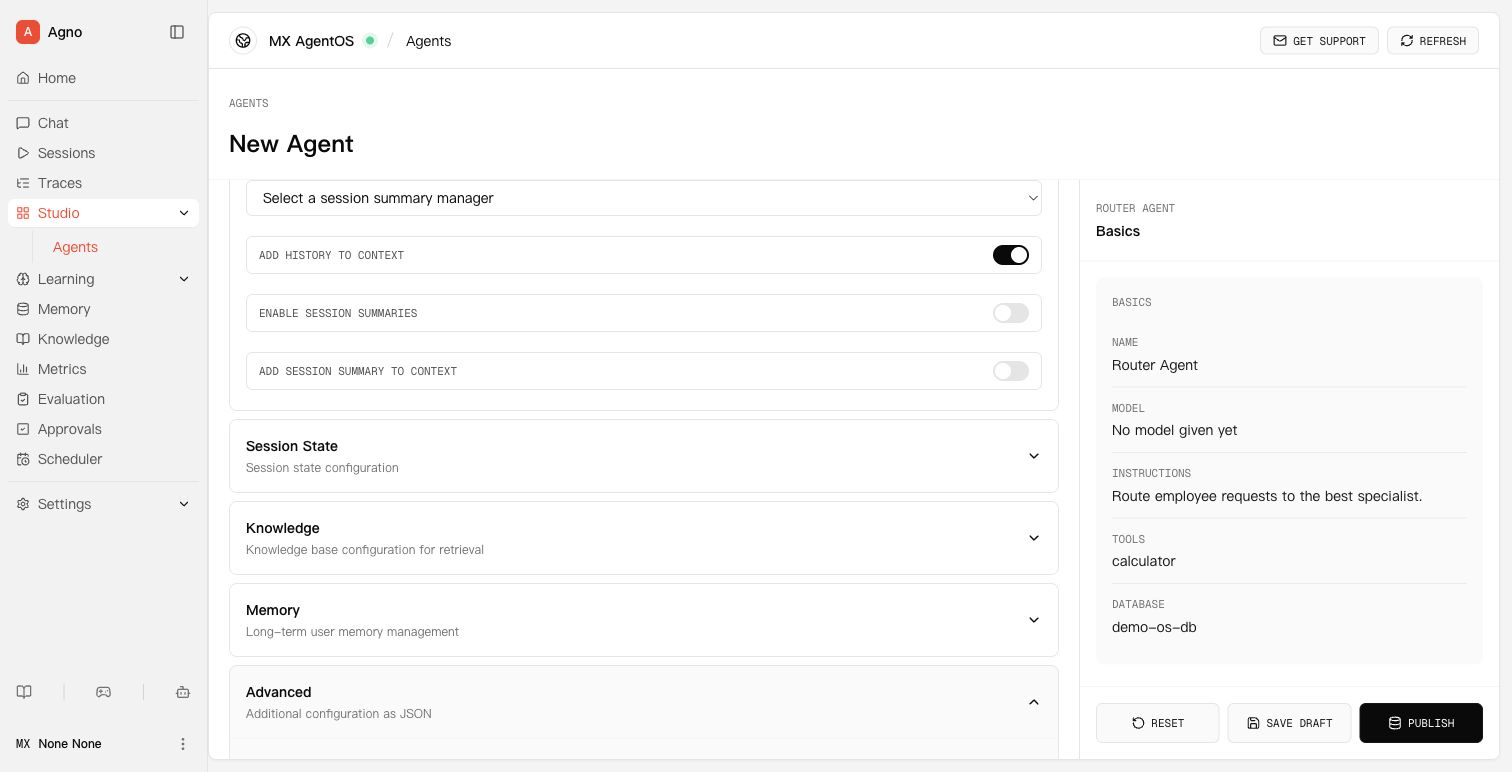
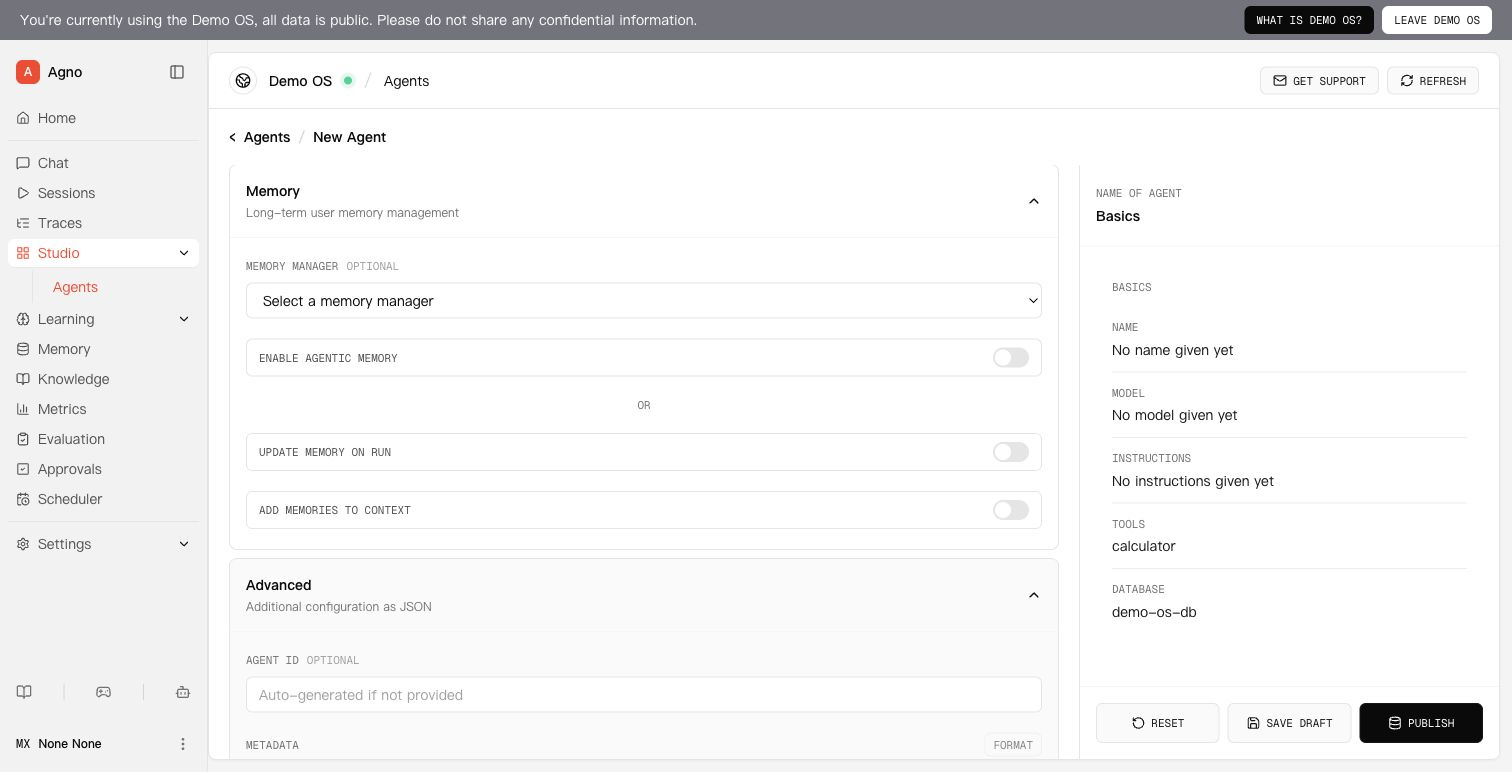
feat: align studio demo shell

diff --git a/frontend/src/components/agentos/app-shell.tsx b/frontend/src/components/agentos/app-shell.tsx
@@ -83,6 +83,7 @@ export function AppShell({
   userInitials: string;
 }) {
   const pathname = usePathname();
+  const isDemoSurface = !pathname.startsWith("/settings");
   const isActive = (href: string, label?: string) => {
     if (href === "/") {
       return pathname === "/";
@@ -97,10 +98,30 @@ export function AppShell({
   const studioLabel = studioSubNav.find(([, href]) => pathname === href)?.[0];
   const learningLabel = learningSubNav.find(([, href]) => pathname === href)?.[0];
   const pageLabel = !settingsLabel && pathname !== "/" ? navigation.find((item) => isActive(item.href, item.label))?.label : null;
+  const shellWorkspaceName = isDemoSurface ? "Demo OS" : workspaceName;
 
   return (
     <div className="min-h-svh bg-[#f4f4f5] text-neutral-950">
-      <div className="flex h-svh">
+      {isDemoSurface ? (
+        <div className="flex h-10 items-center justify-between bg-[#73737d] px-5 text-sm text-white">
+          <p>You&apos;re currently using the Demo OS, all data is public. Please do not share any confidential information.</p>
+          <div className="flex items-center gap-2">
+            <button
+              className="h-7 rounded-md bg-neutral-950 px-3 font-mono text-[11px] uppercase text-white"
+              type="button"
+            >
+              What is Demo OS?
+            </button>
+            <button
+              className="h-7 rounded-md bg-white px-3 font-mono text-[11px] uppercase text-neutral-900"
+              type="button"
+            >
+              Leave Demo OS
+            </button>
+          </div>
+        </div>
+      ) : null}
+      <div className={cn("flex", isDemoSurface ? "h-[calc(100svh-40px)]" : "h-svh")}>
         <aside className="flex w-52 shrink-0 flex-col border-r border-neutral-200 bg-[#f2f2f3]">
           <div className="flex h-16 items-center justify-between px-4">
             <Link className="flex items-center gap-2 text-sm font-medium" href="/">
@@ -220,7 +241,7 @@ export function AppShell({
                 <span className="grid size-7 place-items-center rounded-full border border-neutral-200 bg-white">
                   <Globe2 className="size-4" />
                 </span>
-                <span className="text-sm font-medium">{workspaceName}</span>
+                <span className="text-sm font-medium">{shellWorkspaceName}</span>
                 <span className="size-2 rounded-full bg-emerald-400 shadow-[0_0_0_4px_rgba(52,211,153,0.16)]" />
                 {pageLabel ? (
                   <>

diff --git a/frontend/src/components/agentos/studio-panel.tsx b/frontend/src/components/agentos/studio-panel.tsx
@@ -141,7 +141,7 @@ function AgentBuilder({ agent, onBack }: { agent: EntityCardData | null; onBack:
   const [draftSaved, setDraftSaved] = useState(false);
   const [published, setPublished] = useState(false);
 
-  const publishEnabled = name.trim().length > 0;
+  const publishEnabled = name.trim().length > 0 || selectedTools.length > 0;
   const preview = useMemo(
     () => [
       ["Name", name.trim() || "No name given yet"],
@@ -189,13 +189,16 @@ function AgentBuilder({ agent, onBack }: { agent: EntityCardData | null; onBack:
 
   return (
     <div className="flex min-h-0 flex-1 flex-col">
-      <div className="border-b border-neutral-100 px-5 py-5">
-        <button className="mb-4 font-mono text-[11px] uppercase text-neutral-500 hover:text-neutral-900" onClick={onBack} type="button">
+      <div className="flex h-14 shrink-0 items-center gap-2 px-5 text-sm font-semibold">
+        <button className="inline-flex items-center gap-2 hover:text-neutral-600" onClick={onBack} type="button">
+          <span aria-hidden className="text-lg leading-none">
+            ‹
+          </span>
           Agents
         </button>
-        <h1 className="text-2xl font-semibold">{agent ? agent.name : "New Agent"}</h1>
+        <span className="text-neutral-300">/</span>
+        <span>{agent ? agent.name : "New Agent"}</span>
       </div>
-
       <div className="grid min-h-0 flex-1 grid-cols-[minmax(0,1fr)_420px]">
         <div className="agno-scrollbar min-h-0 overflow-auto px-5 py-5">
           <div className="space-y-2">
@@ -445,7 +448,7 @@ function AgentBuilder({ agent, onBack }: { agent: EntityCardData | null; onBack:
             <h2 className="mt-1 text-sm font-semibold">Basics</h2>
           </div>
           <div className="min-h-0 flex-1 overflow-auto px-4 py-4">
-            <div className="rounded-lg bg-neutral-50 p-4">
+            <div className="rounded-lg bg-white p-4">
               <p className="mb-3 font-mono text-[11px] uppercase text-neutral-500">Basics</p>
               {preview.map(([label, value]) => (
                 <div className="border-b border-neutral-200/70 py-3 last:border-b-0" key={label}>

diff --git a/docs/agno-analysis/phase-1-verification.md b/docs/agno-analysis/phase-1-verification.md
@@ -985,3 +985,18 @@ Result:
 
 This does not claim final 1:1 completion; it gives the remaining visual drift a
 repeatable measurement path for subsequent page-by-page iterations.
+
[phone redacted] Studio visual drift reduction:
+
+- Added the Demo OS top banner to non-Settings pages, matching public Agno
+  `/try-demo` surfaces while keeping authenticated Settings pages banner-free.
+- Changed Studio builder from a large `New Agent` page header to a compact
+  `Agents / New Agent` builder breadcrumb.
+- Matched Agno's observed publish behavior after tool selection: selecting
+  `calculator` enables `PUBLISH` even when the agent name remains empty.
+- Removed the gray fill from the right-side Basics summary area.
+- Rebuilt the standalone preview and recaptured
+  `docs/agno-analysis/local-screenshots/studio-builder-advanced-local.png`.
+- `pnpm visual:diff` now reports `studio-builder-advanced` at different ratio
+  `0.082532` against max `0.08`; this is still a tracked visual failure, not a
+  completed 1:1 match.

diff --git a/docs/agno-analysis/visual-diffs/report.md b/docs/agno-analysis/visual-diffs/report.md
@@ -1,6 +1,6 @@
 # Visual Diff Report
 
-Generated: 2026-06-19T08:26:34.752Z
+Generated: 2026-06-19T08:36:39.436Z
 
 Config: `docs/agno-analysis/screenshot-comparison.config.json`
 
@@ -8,5 +8,5 @@ Totals: 1/2 passed, 1 failed.
 
 | Status | Pair | Viewport | Reference | Local | Different ratio | Max ratio | Diff |
 | --- | --- | --- | --- | --- | --- | --- | --- |
-fail | studio-builder-advanced | desktop | 1512x772 | 1512x772 | 0.134473 | 0.08 | docs/agno-analysis/visual-diffs/diffs/studio-builder-advanced.diff.png
+fail | studio-builder-advanced | desktop | 1512x772 | 1512x772 | 0.082532 | 0.08 | docs/agno-analysis/visual-diffs/diffs/studio-builder-advanced.diff.png
 pass | settings-os-shell | desktop | 1512x828 | 1512x828 | 0.065668 | 0.12 | docs/agno-analysis/visual-diffs/diffs/settings-os-shell.diff.png